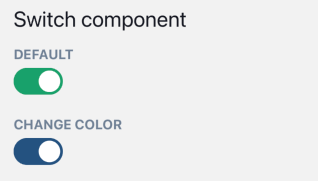
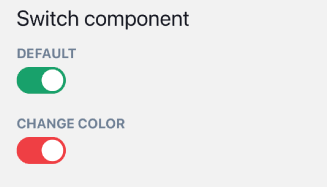
Update Switch component

Changed region(s): [[0.0283, 0.6077, 0.3962, 0.9116], [0.0283, 0.0276, 0.5943, 0.1657], [0.0283, 0.2486, 0.2547, 0.5249]]

diff --git a/src/components/switch/switch.component.tsx b/src/components/switch/switch.component.tsx
@@ -13,20 +13,20 @@ const Switch: React.FC<SwitchProps> = (incomingProps) => {
     w: 55,
     h: 30,
     onPress: (): void => {},
-    activeBg: 'green.500',
+    colorScheme: 'green',
     bg: 'gray.400',
     on: false,
-    circleBg: 'white',
-    activeCircleBg: 'white',
+    thumbBg: 'white',
+    activeThumbBg: 'white',
     duration: 300,
     borderRadius: 'full',
     isDisabled: false,
   });
 
   const {
+    bg,
     h,
     w,
-    bg,
     m,
     mt,
     mr,
@@ -60,9 +60,9 @@ const Switch: React.FC<SwitchProps> = (incomingProps) => {
     borderTopWidth,
     borderEndWidth,
     onPress,
-    activeBg,
-    circleBg,
-    activeCircleBg,
+    colorScheme,
+    thumbBg,
+    activeThumbBg,
     duration,
     on,
     ...rest
@@ -112,7 +112,7 @@ const Switch: React.FC<SwitchProps> = (incomingProps) => {
               inputRange: [0, 1],
               outputRange: [
                 getThemeColor(theme.colors, bg),
-                getThemeColor(theme.colors, activeBg),
+                getThemeColor(theme.colors, `${props.colorScheme}.500`),
               ],
             }),
           },
@@ -125,8 +125,8 @@ const Switch: React.FC<SwitchProps> = (incomingProps) => {
               backgroundColor: animXValue.interpolate({
                 inputRange: [0, 1],
                 outputRange: [
-                  getThemeColor(theme.colors, circleBg),
-                  getThemeColor(theme.colors, activeCircleBg),
+                  getThemeColor(theme.colors, thumbBg),
+                  getThemeColor(theme.colors, activeThumbBg),
                 ],
               }),
             },

diff --git a/example/src/components/Switch.tsx b/example/src/components/Switch.tsx
@@ -16,13 +16,7 @@ const SwitchComponent = () => {
           <Switch on={on} onPress={() => toggle(!on)} />
         </ExampleSection>
         <ExampleSection name="change color">
-          <Switch
-            on={on2}
-            onPress={() => toggle2(!on2)}
-            bg="gray.200"
-            circleBg="blue.500"
-            activeBg="blue.700"
-          />
+          <Switch colorScheme="red" on={on2} onPress={() => toggle2(!on2)} />
         </ExampleSection>
       </ScrollBox>
     </SafeAreaView>

diff --git a/src/components/switch/switch.type.tsx b/src/components/switch/switch.type.tsx
@@ -23,8 +23,8 @@ export interface SwitchProps
   testID?: string;
   on?: boolean;
   onPress: () => void;
-  activeBg?: string;
-  circleBg?: string;
-  activeCircleBg?: string;
+  colorScheme?: string;
+  thumbBg?: string;
+  activeThumbBg?: string;
   duration?: number;
 }

diff --git a/docs/docs/Components/switch.md b/docs/docs/Components/switch.md
@@ -4,7 +4,7 @@ sidebar_position: 14
 
 # Switch
 
-Toggle component from Magnus UI.
+Toggle component from Magnus UI, moved to `colorScheme` prop from Chakra UI.
 
 ## Import
 
@@ -16,42 +16,44 @@ import { Switch } from "react-native-ficus-ui";
 
 ```js
 <Switch on={on} onPress={() => toggle(!on)} />
-<Switch
-    on={on2}
-    onPress={() => toggle2(!on2)}
-    bg="gray.200"
-    circleBg="blue.500"
-    activeBg="blue.700"
-/>
+<Switch colorScheme="red" on={on2} onPress={() => toggle2(!on2)} />
 ```
 
 <img src="/img/switch.png" />
 
 ## Props
 
+`colorScheme`
+---
+The background color of switch when is active.
+
+|Type|Required|Default|
+|---|---|---|
+|string|No|green|
+
 `bg`
 ---
 The background color property (`backgroundColor` style prop in StyleSheet)
 
-|Type|Required|
-|---|---|
-|string|No|
+|Type|Required|Default|
+|---|---|---|
+|string|No|gray.400|
 
-`circleBg`
+`thumbBg`
 ---
-The background color of circle.
+The background color of thumb component (circle).
 
-|Type|Required|
-|---|---|
-|string|No|
+|Type|Required|Default|
+|---|---|---|
+|string|No|white|
 
-`activeCircleBg`
+`activeThumbBg`
 ---
-The background color of circle when toggle is on.
+The background color of thumb when toggle is on.
 
-|Type|Required|
-|---|---|
-|string|No|
+|Type|Required|Default|
+|---|---|---|
+|string|No|white|
 
 `isDisabled`
 ---
